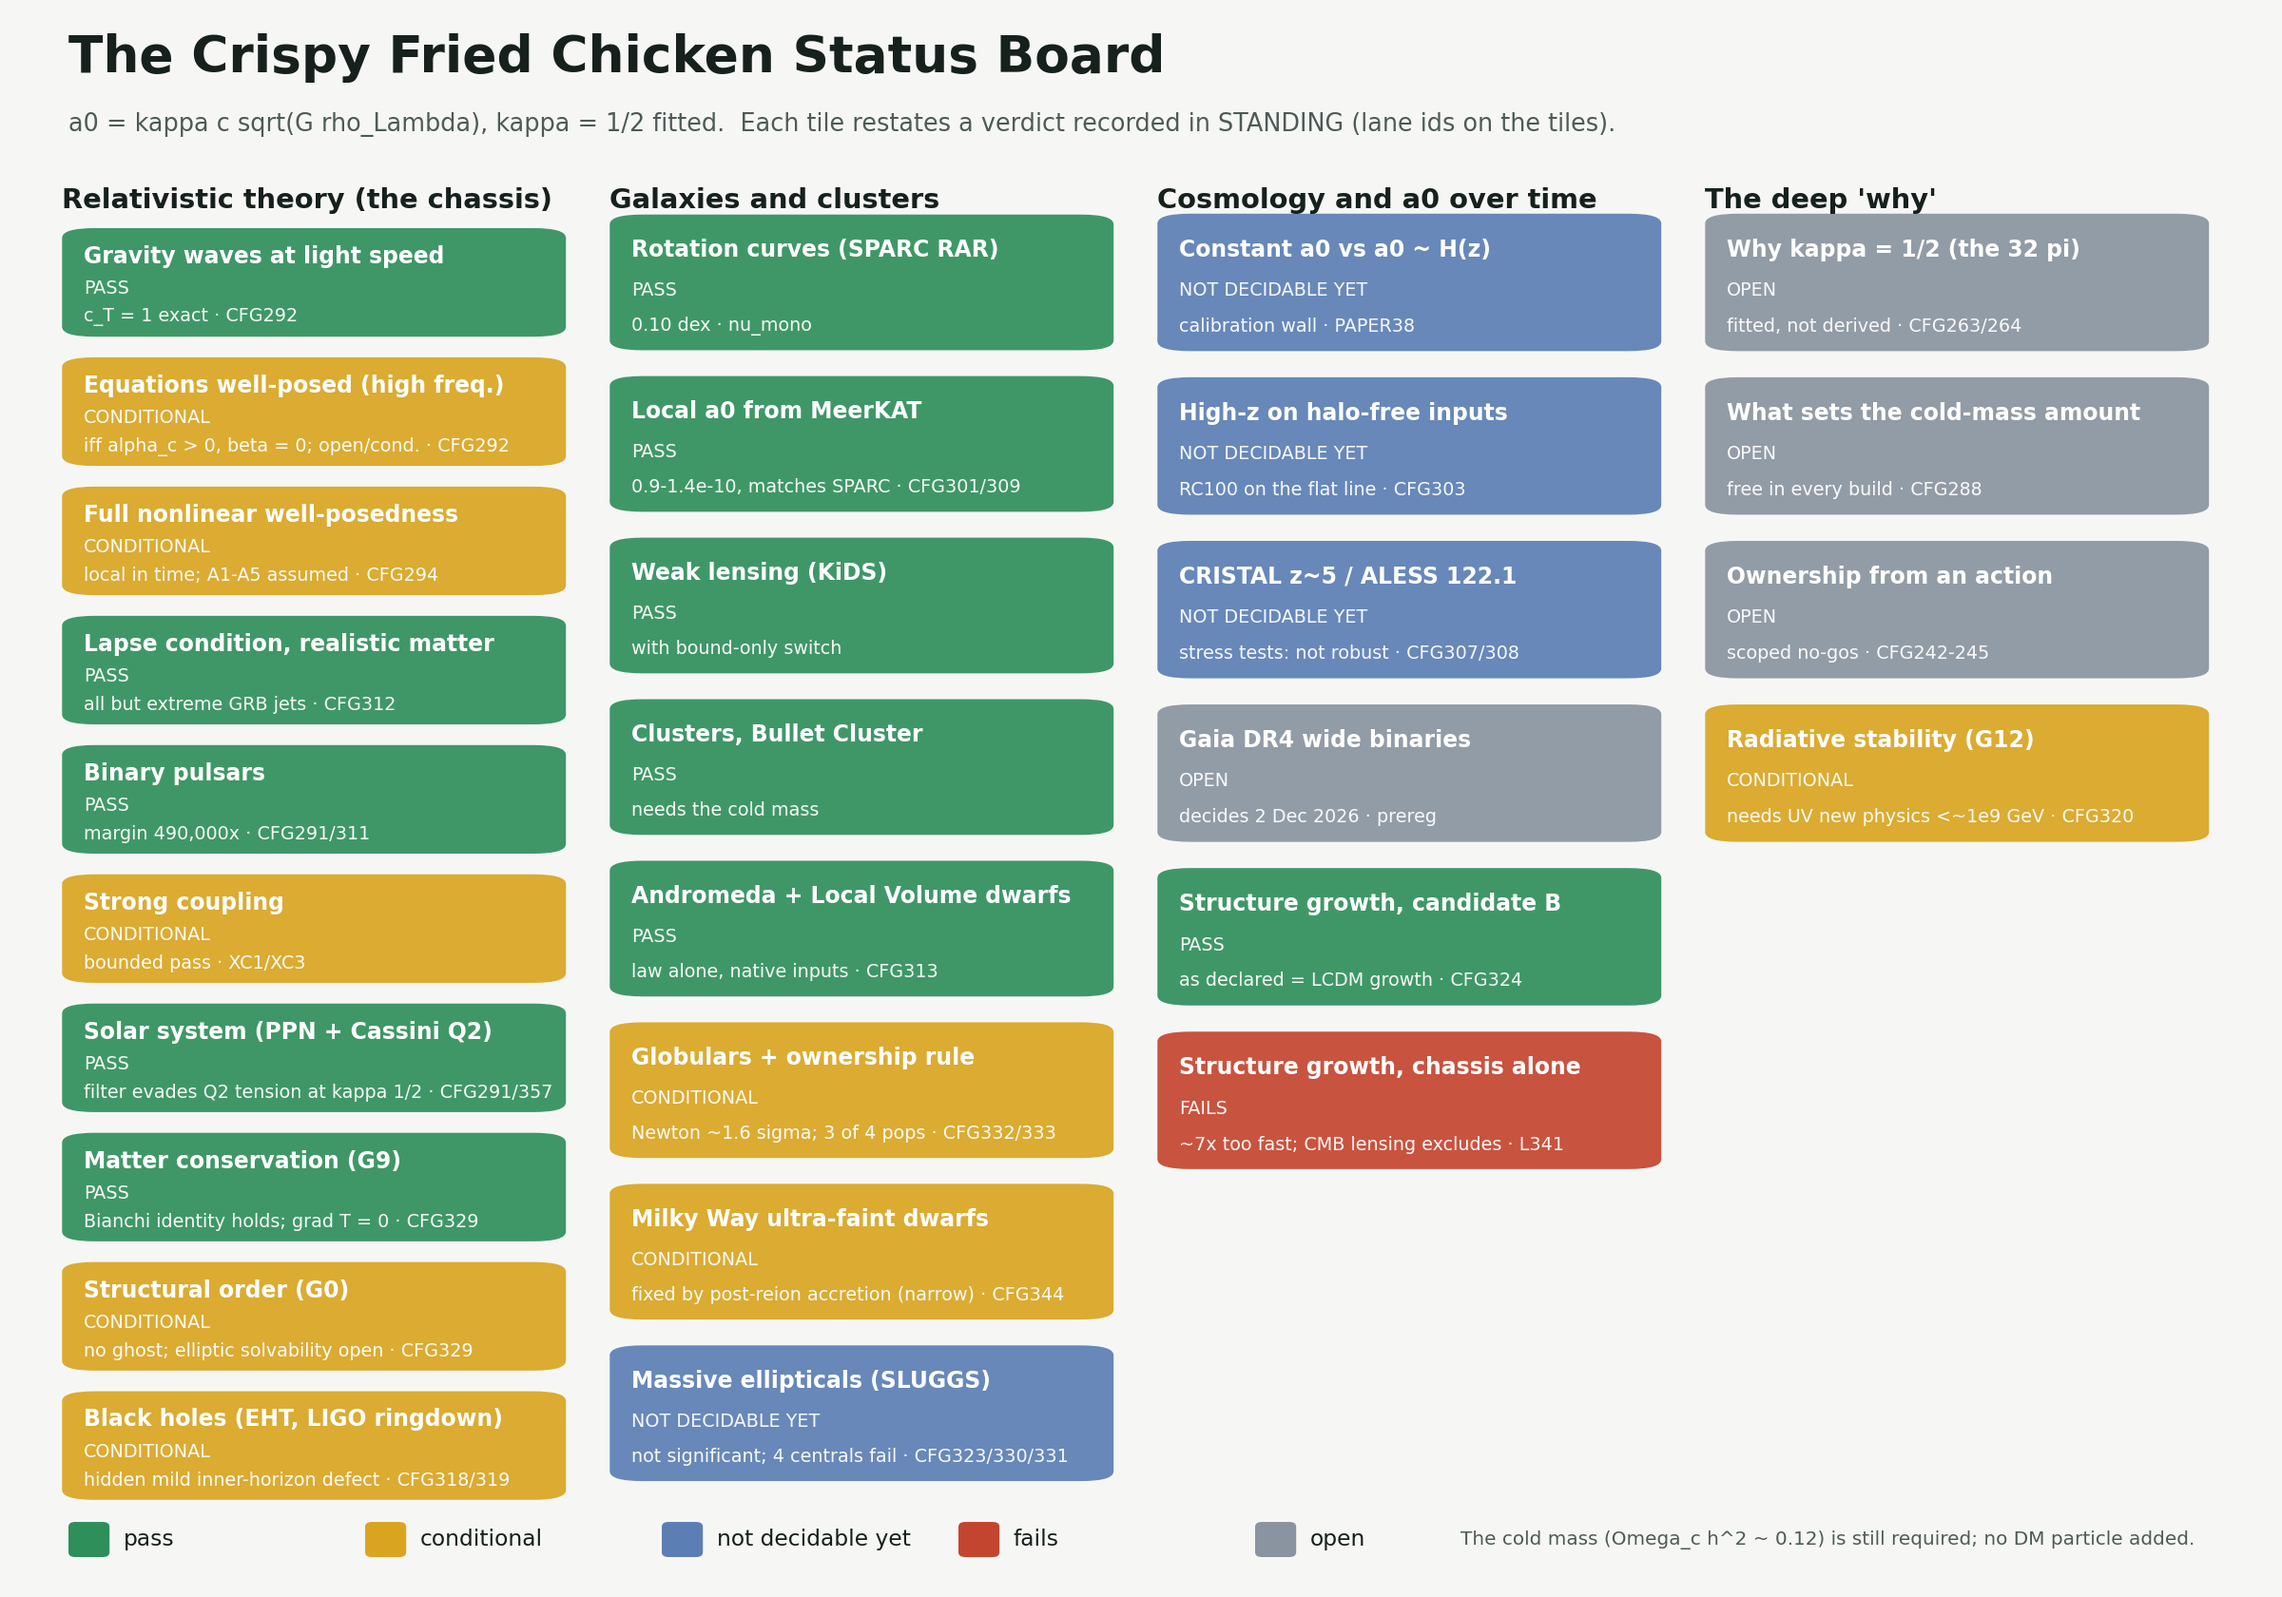
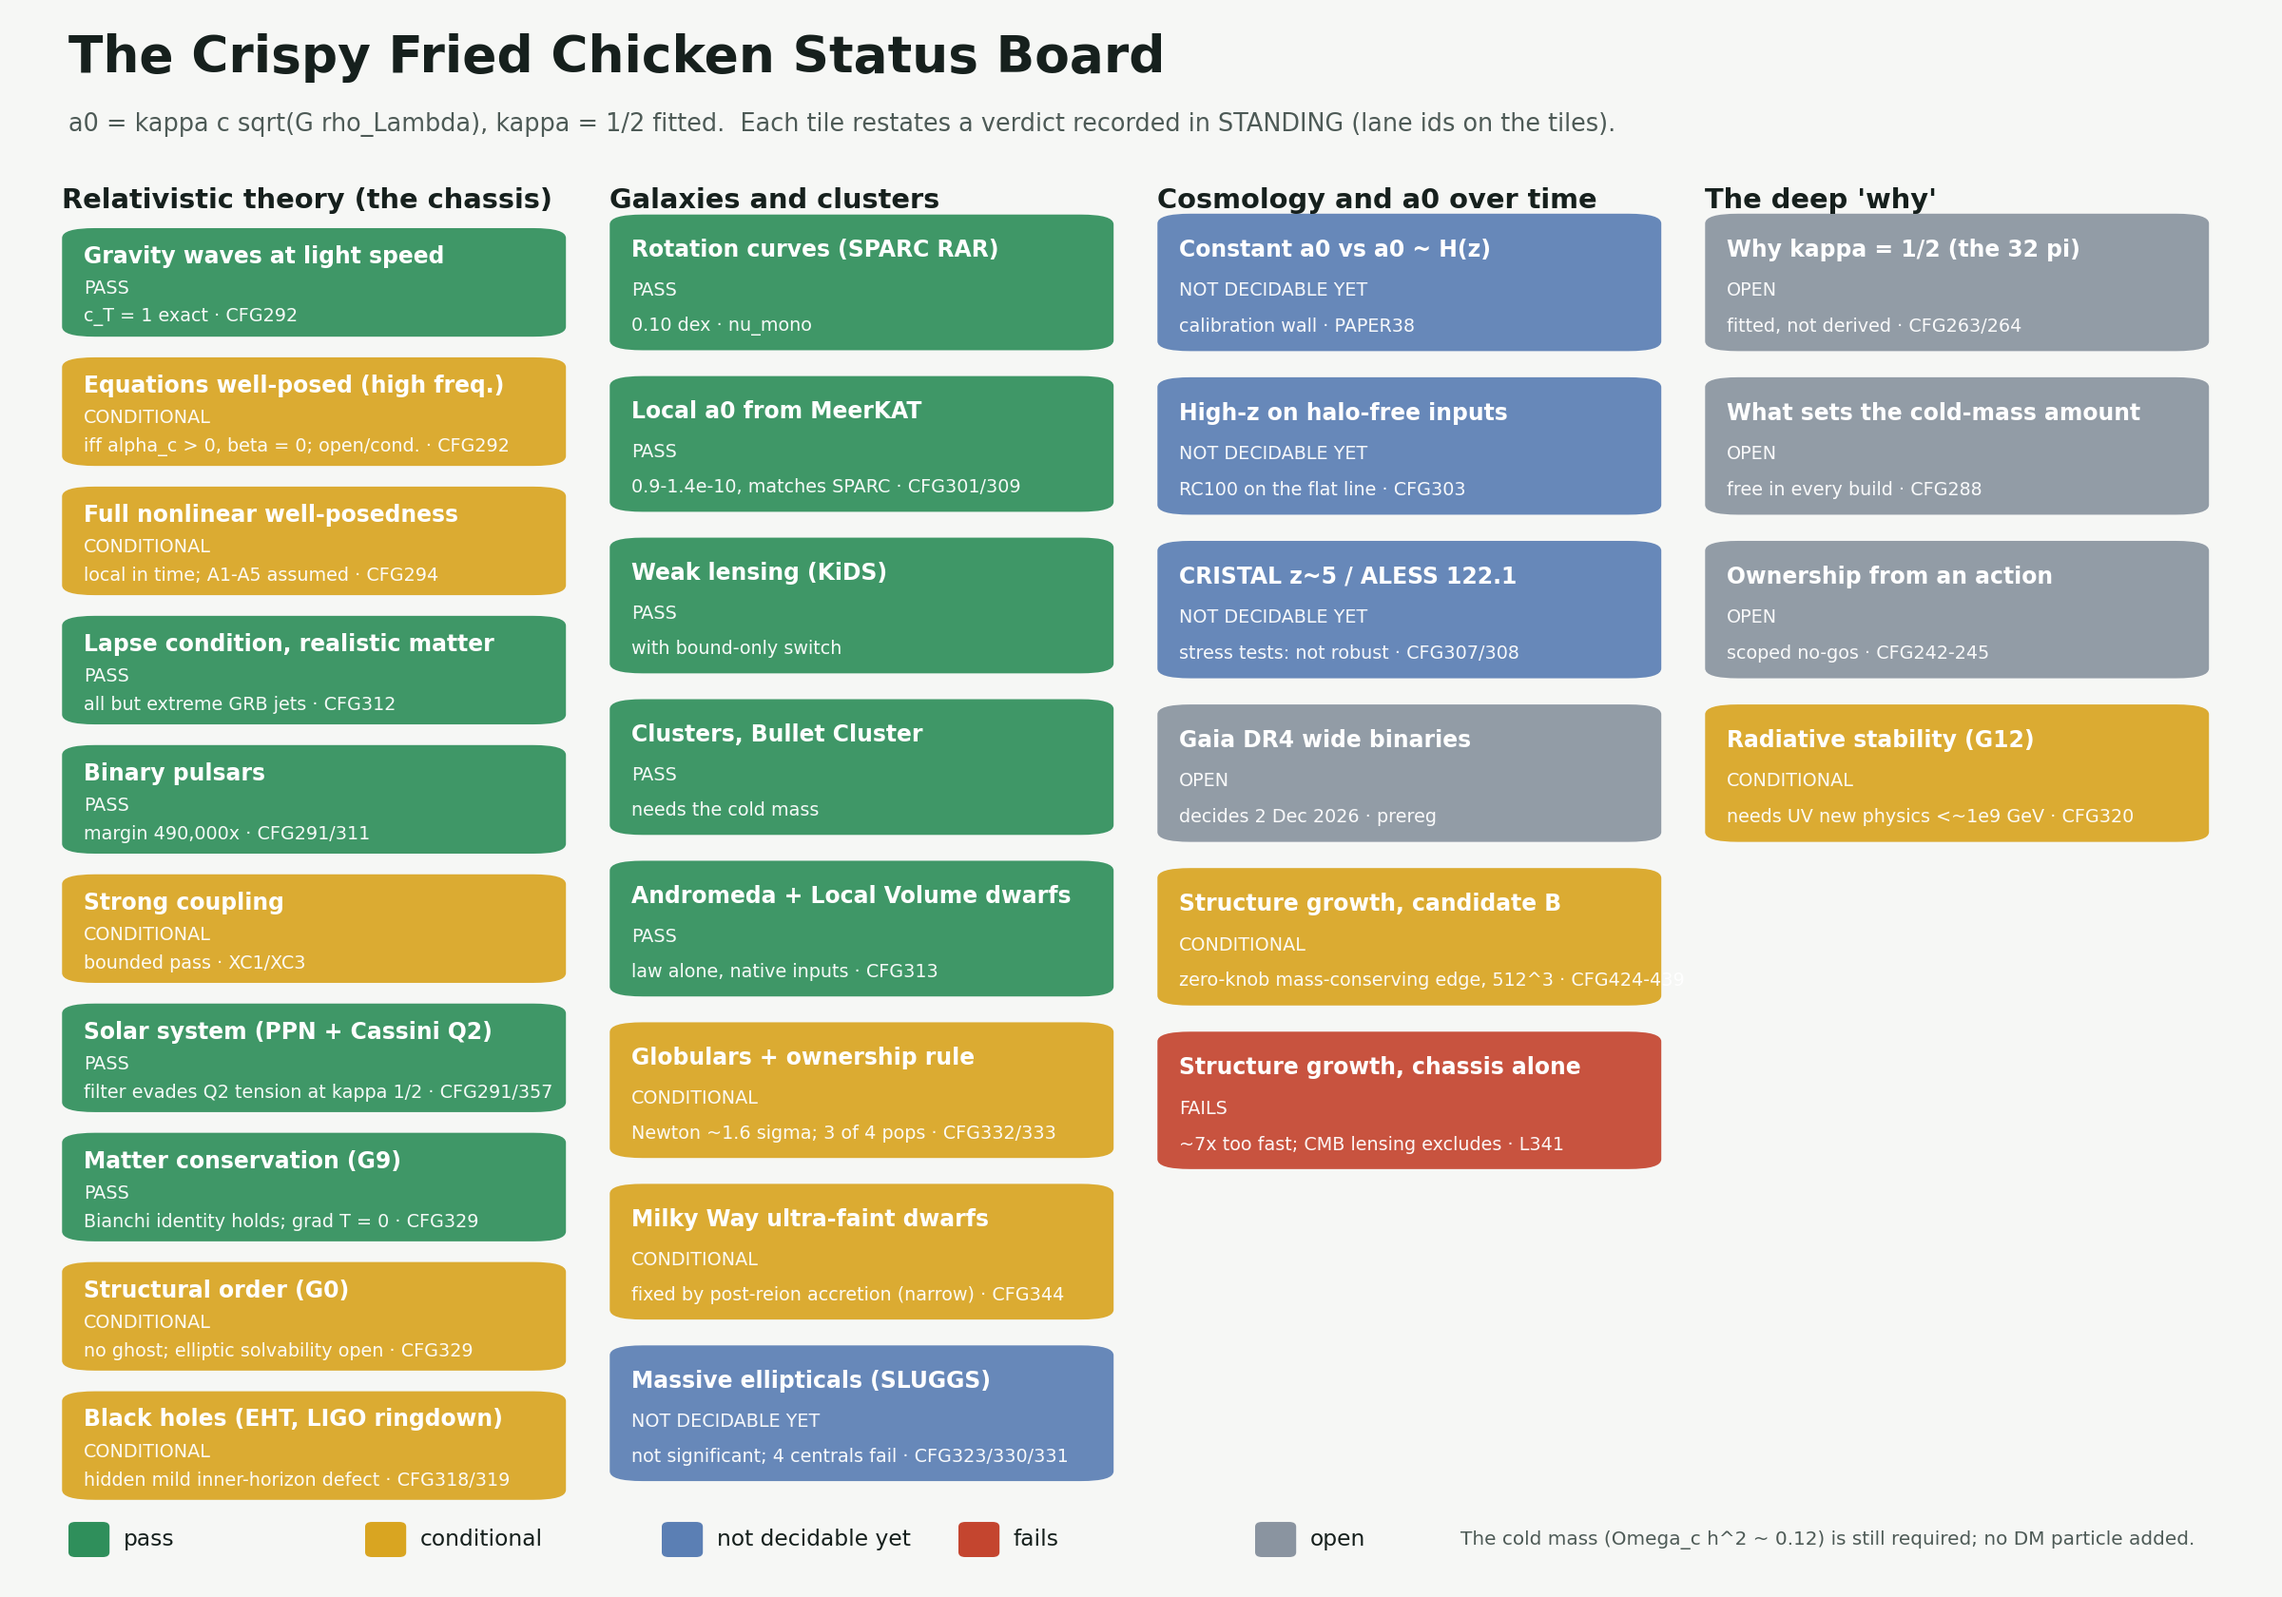
Status board: growth tile PASS-as-declared -> CONDITIONAL with the zero-knob mass-conserving rule passing at 512^3 (CFG424-439); explainer UFD text aligned with the picture (conditional, CFG344); dated 8 Oct.

Changed region(s): [[0.5, 0.5262, 0.75, 0.65]]

diff --git a/campaign_fresh_gravity/closure_map/status_picture_2026_10_03.py b/campaign_fresh_gravity/closure_map/status_picture_2026_10_03.py
@@ -39,7 +39,7 @@ groups = [
         ("High-z on halo-free inputs", "UNDEC", "RC100 on the flat line · CFG303"),
         ("CRISTAL z~5 / ALESS 122.1", "UNDEC", "stress tests: not robust · CFG307/308"),
         ("Gaia DR4 wide binaries", "OPEN", "decides 2 Dec 2026 · prereg"),
-        ("Structure growth, candidate B", "PASS", "as declared = LCDM growth · CFG324"),
+        ("Structure growth, candidate B", "COND", "zero-knob mass-conserving edge, 512^3 · CFG424-439"),
         ("Structure growth, chassis alone", "FAIL", "~7x too fast; CMB lensing excludes · L341"),
     ]),
     ("The deep 'why'", [

diff --git a/explainers/crispy_fried_chicken_status_board.md b/explainers/crispy_fried_chicken_status_board.md
@@ -1,6 +1,6 @@
 # The Crispy Fried Chicken Status Board
 
-*Where the theory stands, as of 5 October 2026, in one picture.*
+*Where the theory stands, as of 8 October 2026, in one picture.*
 
 The theory makes one claim: the acceleration scale where galaxies stop obeying Newton, a₀, is set by the density of dark energy.
 
@@ -48,7 +48,7 @@ This is the full field theory underneath the law: general relativity plus a pref
   - weak lensing (KiDS);
   - clusters, including the Bullet Cluster, which needs the cold mass;
   - Andromeda's and the Local Volume's dwarfs.
-- **Fails: the Milky Way's ultra-faint dwarfs.** They move about 2× faster than the law predicts, at 3.8σ, which is the generous end of the estimate. Every data-side explanation has been tested and fails: binary stars, stellar masses, the Milky Way's pull, and tides. Fixing them needs new theory.
+- **Conditional: the Milky Way's ultra-faint dwarfs.** They move about 2× faster than the law predicts (3.8σ at the generous end), and every data-side explanation fails. Post-reionisation cold accretion onto these fossils (CFG344) removes the offset, but only in a narrow window and with ΛCDM-calibrated assembly assumed.
 - **Not decidable yet: the massive ellipticals.** They are about 20% too fast, but once measured tracers are used the gap is not significant. The four galaxies at the centres of groups and clusters still disagree.
 
 ## Column 3 · Cosmology, and does a₀ change over cosmic time?
@@ -59,7 +59,7 @@ The theory's sharpest prediction is that **a₀ stays constant**. Its main rival
 
 - **Not decidable yet: a₀ over time.** The two lines separate at redshift 2–5. At those redshifts, though, the uncertainty in how much gas each galaxy holds is larger than the gap between the lines (the "calibration wall", PAPER38). No public data set can settle this today.
 - **Open: Gaia DR4 wide binaries** (data release 2 December 2026). This test is pre-registered and frozen: PAPER35 predicts exactly Newtonian behaviour.
-- **Pass: structure growth, candidate B.** The cosmic web is not gravitationally bound, so B's switch stays off there. Large-scale growth therefore matches ΛCDM's, and Planck's CMB lensing is reproduced. This also means the test cannot tell B apart from ΛCDM.
+- **Conditional: structure growth, candidate B.** Simulated in a universe-in-a-box (CFG361 onward), switching the law on everywhere makes small-scale structure 15–17% too clumpy. The fix has no hand-set numbers. The phantom is cold fluid, so the law stops where each halo's own cold fluid runs out. That cold fluid is drawn from the halo's own turnaround sphere, so mass is conserved halo by halo. With this rule, growth passes at 512³ resolution on both a₀ values and with a₀ tracking dark energy (3–4% against an allowed 10%; CFG424–439). The condition: in these runs the cold fluid is bookkeeping, not simulated particles, and the settling mechanism is not yet derived from an action.
 - **Fails: structure growth, chassis alone.** Without B's switch, all matter feels the MOND boost and structure grows about 7× too fast, which CMB lensing rules out. This variant is dead; candidate B is the live one.
 
 ## Column 4 · The deep "why"
